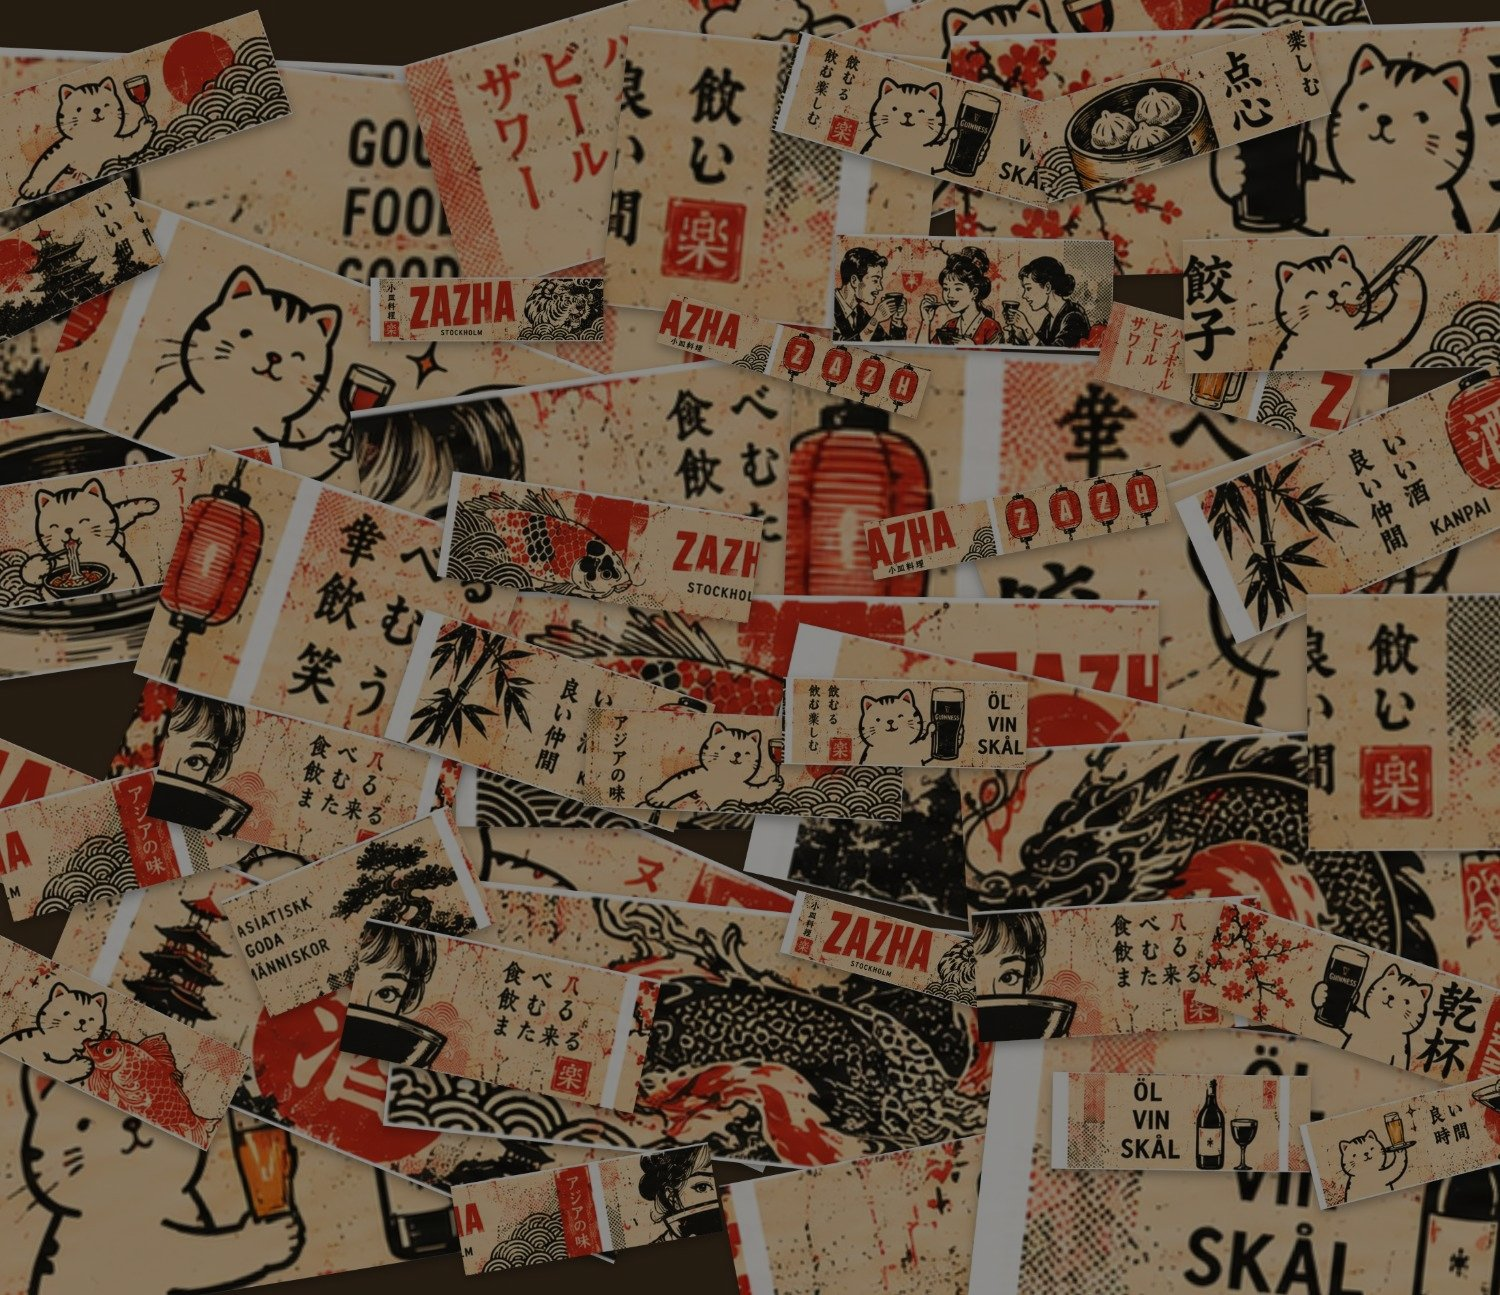
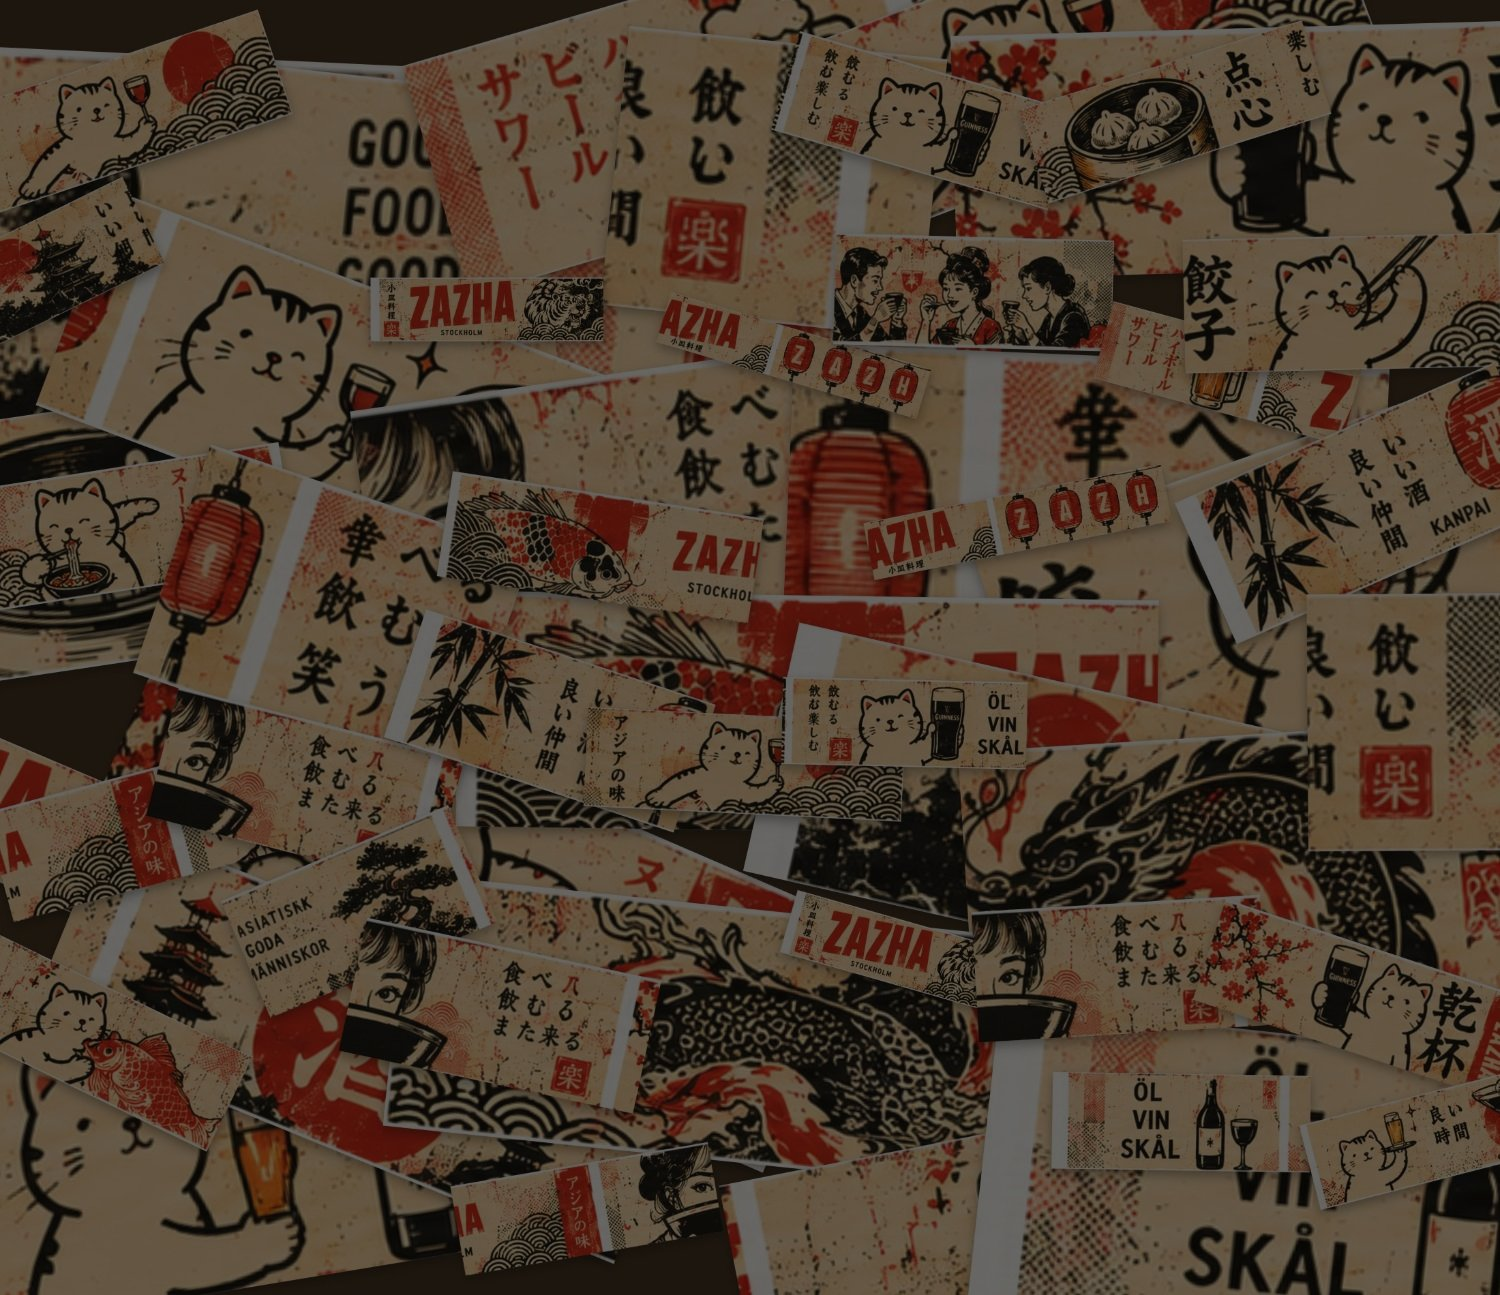
Ta bort gröna After Work-markeringen, mörkare tapet överallt
#happy-hour matchar nu samma ljusa tapet-overlay som resten av sidan
istället för sin egen olivgröna bakgrund. Bakade in en starkare mörk
ton i själva tapetbilden (48% -> 62% svart overlay) för tydligare
kontrast och mindre "urtvättat" intryck.

diff --git a/meny.html b/meny.html
@@ -242,18 +242,13 @@
     }
     .meny-section-link:hover { border-color: var(--terracotta); color: var(--charcoal); transform: translateX(4px); }
 
-    /* Happy Hour — centered, olive bg */
+    /* Happy Hour — centered, matches rest of page */
     #happy-hour {
-      background: rgba(58, 78, 40, 0.75);
+      background: rgba(245, 240, 232, 0.75);
       padding: 100px 80px;
       text-align: center;
     }
     .happy-inner { max-width: 560px; margin: 0 auto; }
-    #happy-hour .meny-section-eyebrow { color: var(--sand); }
-    #happy-hour .meny-section-heading { color: var(--cream); }
-    #happy-hour .meny-section-body { color: var(--sand); opacity: 0.88; }
-    #happy-hour .meny-section-link { color: var(--sand); border-color: rgba(196,168,130,0.4); }
-    #happy-hour .meny-section-link:hover { color: var(--cream); border-color: var(--sand); }
 
     /* ============================================================
        LIVE EDITING
